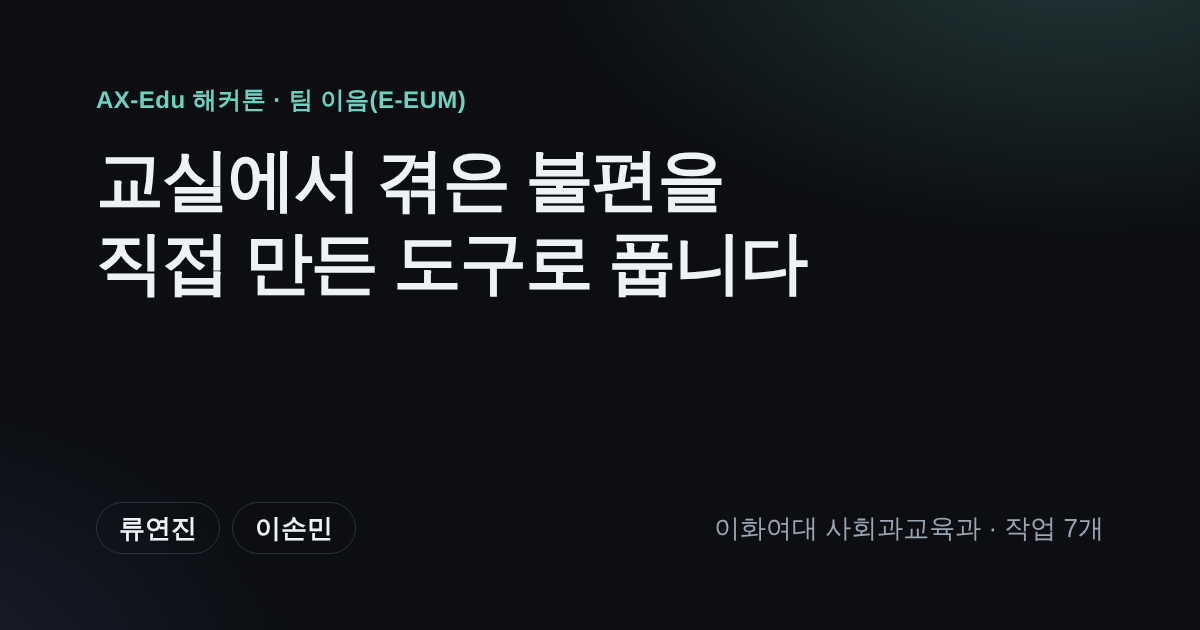
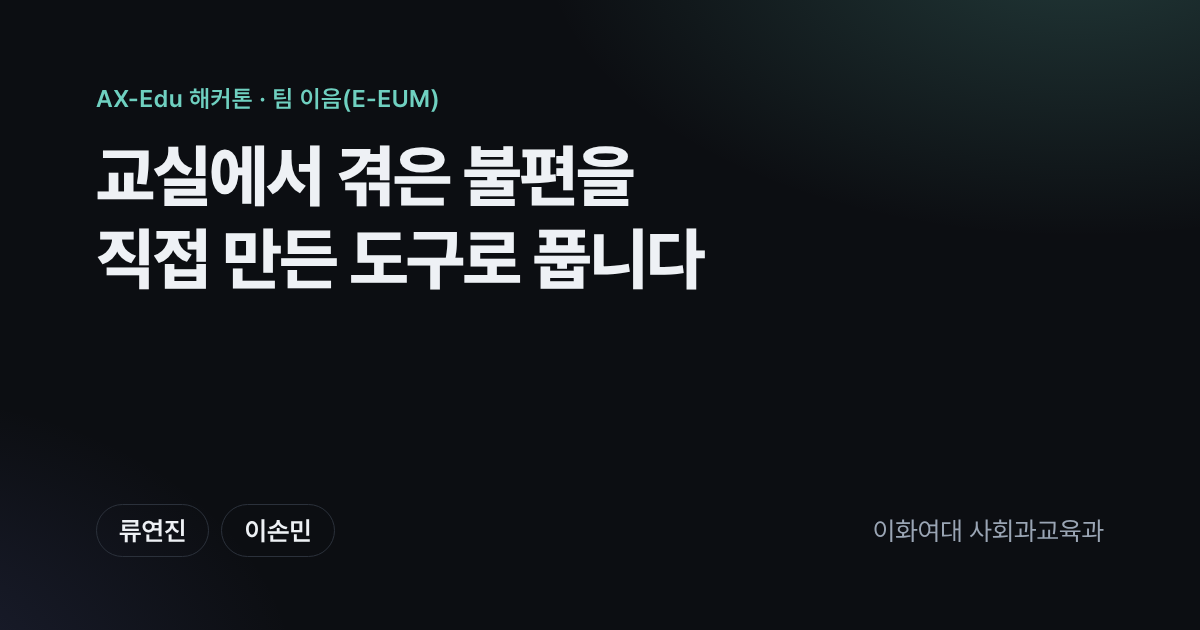
Add files via upload

diff --git a/index.html b/index.html
@@ -7,7 +7,7 @@
 <meta property="og:type" content="website">
 <meta property="og:url" content="https://son9939.github.io/portfolio/">
 <meta property="og:title" content="팀 이음(E-EUM) 작업집 · 류연진·이손민">
-<meta property="og:description" content="교실에서 겪은 불편을 직접 만든 도구로 풉니다. AI 웹앱·자동화 도구·수요예측 모델 등 7개 작업">
+<meta property="og:description" content="교실에서 겪은 불편을 직접 만든 도구로 풉니다. AI 웹앱·자동화 도구·수요예측 모델 등 작업 모음">
 <meta property="og:image" content="https://son9939.github.io/portfolio/og.png">
 <meta property="og:image:width" content="1200">
 <meta property="og:image:height" content="630">
